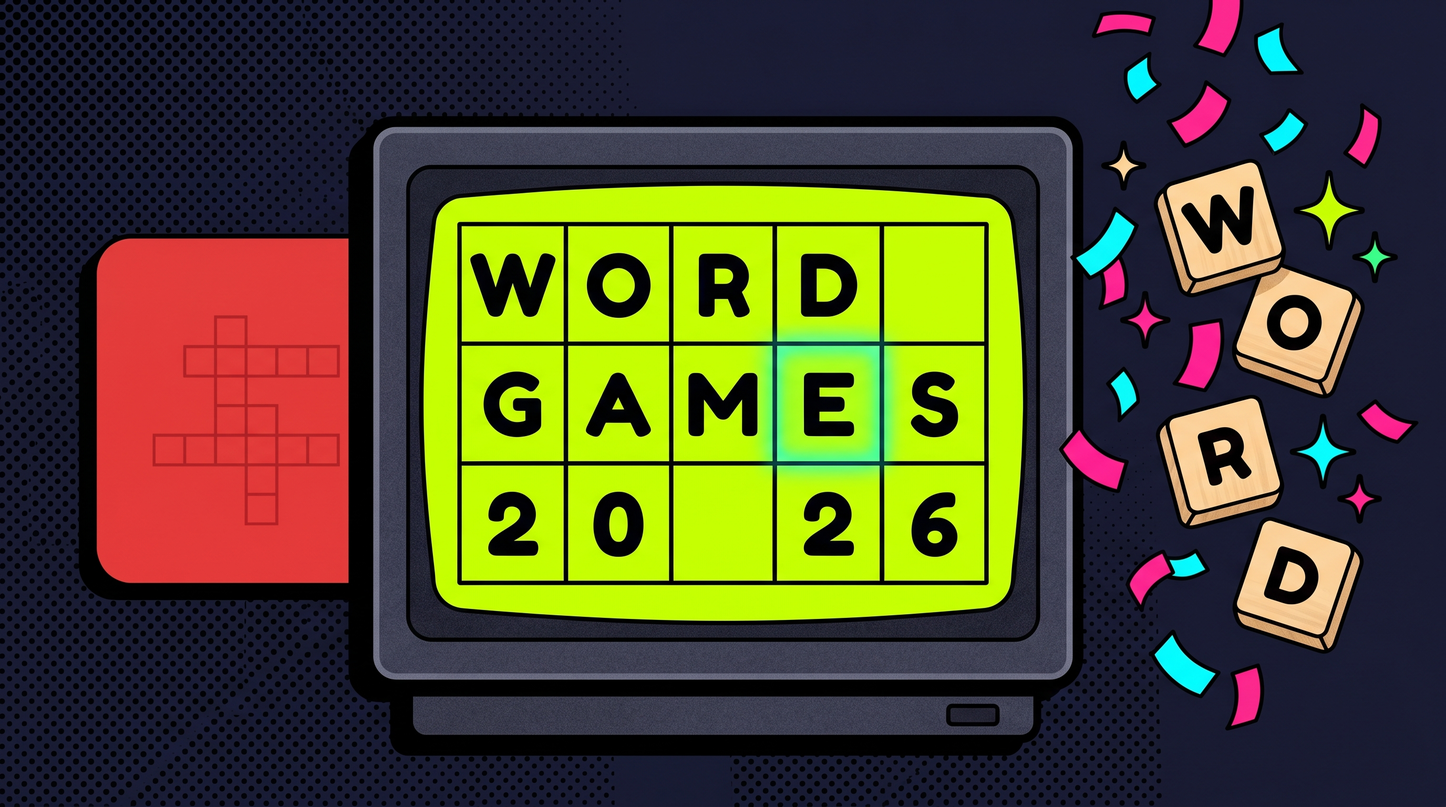
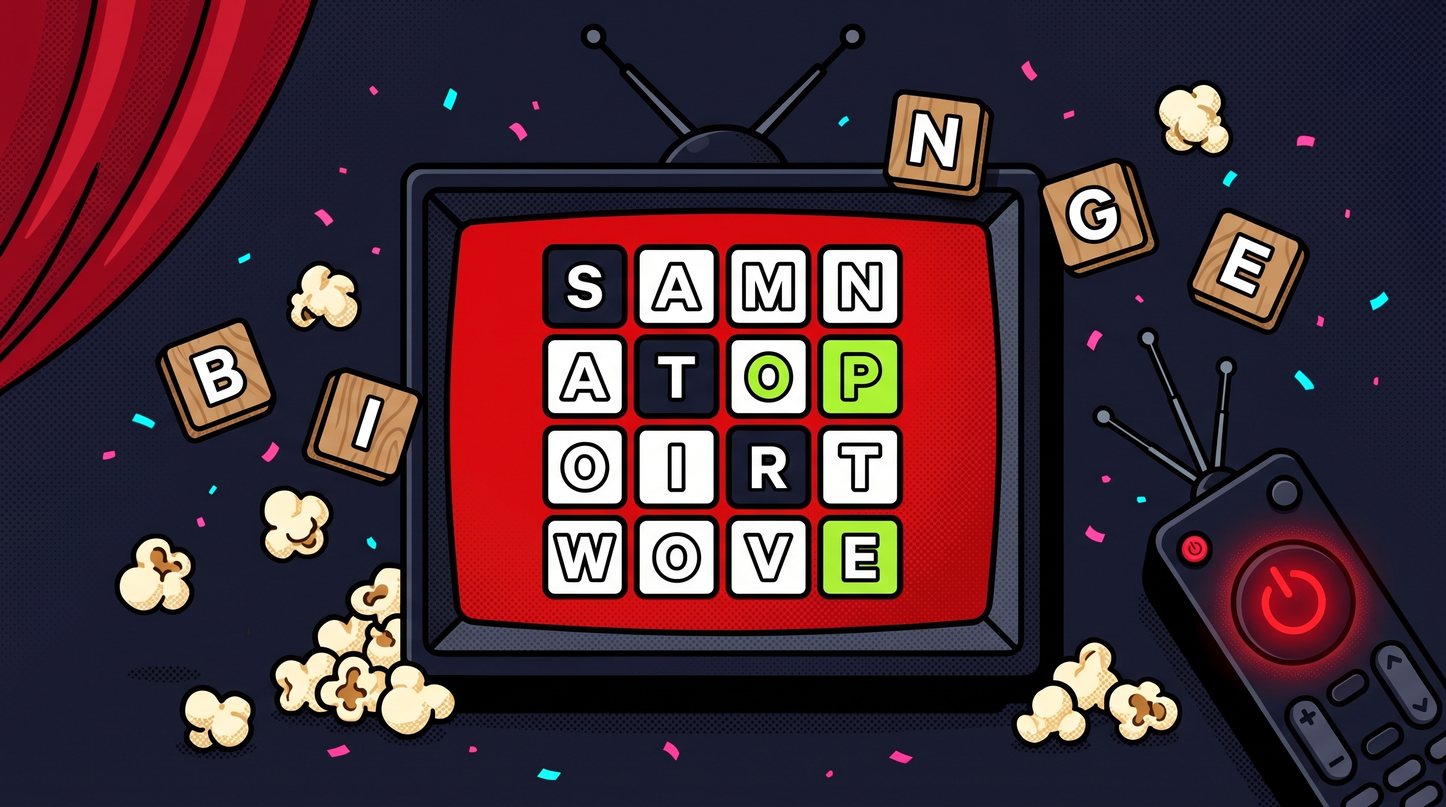
feat(blog): show newest posts on home + prominent CTA + Netflix-themed image
- Reorder LandingBlogSection to show 3 most recent posts (Netflix 2026,
  Boggle vs Wordle, Boggle vs Scrabble) instead of older entries
- Replace small text link with neo-brutalist yellow "View All Articles"
  button under the grid (visible on every breakpoint)
- Regenerate netflix-word-games.jpg with stronger streaming visual
  language: red curtain, popcorn, remote, red TV — no Netflix logo
  (trademark-safe)

diff --git a/fe-next/components/landing/LandingBlogSection.tsx b/fe-next/components/landing/LandingBlogSection.tsx
@@ -4,7 +4,7 @@ import Link from 'next/link';
 import Image from 'next/image';
 import { useParams } from 'next/navigation';
 import { motion } from 'framer-motion';
-import { Calendar, Clock, ArrowRight } from 'lucide-react';
+import { Calendar, Clock, ArrowRight, BookOpen } from 'lucide-react';
 import { useLanguage } from '@/contexts/LanguageContext';
 import { cn } from '@/lib/utils';
 import { safeToLocaleDateString } from '@/utils/bcp47Locale';
@@ -16,41 +16,42 @@ interface BlogPostData {
   content: Record<string, { title: string; excerpt: string; readTime: string; category: string }>;
 }
 
+// Sorted by date descending — newest first. Keep in sync with `app/[locale]/blog/PageClient.tsx`.
 const recentPosts: BlogPostData[] = [
   {
-    slug: 'vocabulary-building-strategies',
-    image: '/images/blog/vocabulary-building.jpg',
-    date: '2026-03-05',
+    slug: 'netflix-word-game-2026-rise',
+    image: '/images/blog/netflix-word-games.jpg',
+    date: '2026-04-29',
     content: {
-      en: { title: 'I Learned 500 New Words in 30 Days (Here\'s Exactly How)', excerpt: 'Spaced repetition, active recall, morphology hacks, and the daily routines that actually stick.', readTime: '11 min read', category: 'Learning' },
-      he: { title: 'למדתי 500 מילים חדשות ב-30 יום (ככה בדיוק)', excerpt: 'חזרה מרווחת, זכירה אקטיבית, טריקים מורפולוגיים, ושגרות יומיות שבאמת נתקעות.', readTime: '11 דקות קריאה', category: 'למידה' },
-      sv: { title: 'Jag lärde mig 500 nya ord på 30 dagar (så här gjorde jag)', excerpt: 'Repetition med intervall, aktiv återkallning, morfologiknep och dagliga rutiner som faktiskt fastnar.', readTime: '11 min läsning', category: 'Lärande' },
-      ja: { title: '30日で500の新しい単語を覚えた方法（具体的に教えます）', excerpt: '間隔反復、能動的想起、形態学ハック、実際に定着する日課。', readTime: '11分で読める', category: '学習' },
-      es: { title: 'Aprendí 500 Palabras Nuevas en 30 Días (Así Es Exactamente Cómo)', excerpt: 'Repetición espaciada, recuerdo activo, trucos morfológicos y rutinas diarias que realmente se quedan.', readTime: '11 min de lectura', category: 'Aprendizaje' },
+      en: { title: "Netflix Just Dropped a Word Game — 2026 Is the Year Word Games Took Over", excerpt: 'Streaming giants, daily-puzzle obsession, brain-training boom and a TikTok-shaped social loop. Why every screen you own suddenly wants you spelling things.', readTime: '9 min read', category: 'Trends' },
+      he: { title: 'נטפליקס שחררה משחק מילים — 2026 היא השנה של משחקי המילים', excerpt: 'סטרימינג ענק, התמכרות לפאזל היומי, גל אימון מוחי וטיק־טוק שהפך פתרון לספורט צפייה. למה כל מסך פתאום רוצה שתאייתו.', readTime: '9 דקות קריאה', category: 'טרנדים' },
+      sv: { title: 'Netflix släppte ett ordspel — 2026 är ordspelens år', excerpt: 'Streamingjättar, daglig pusselbesatthet, hjärnträningsboom och en TikTok-driven social loop. Varför varenda skärm plötsligt vill att du stavar.', readTime: '9 min läsning', category: 'Trender' },
+      ja: { title: 'Netflixがワードゲームを投入 — 2026年はワードゲームの年', excerpt: 'ストリーミング大手、デイリーパズル中毒、脳トレブーム、TikTok型ソーシャルループ。なぜあなたの全画面が突然「綴れ」と言ってくるのか。', readTime: '9分で読める', category: 'トレンド' },
+      es: { title: 'Netflix lanza un juego de palabras — 2026, el año de los juegos de palabras', excerpt: 'Gigantes del streaming, obsesión por el puzzle diario, boom del entrenamiento cerebral y un bucle social al estilo TikTok. Por qué cada pantalla quiere que deletrees.', readTime: '9 min de lectura', category: 'Tendencias' },
     },
   },
   {
-    slug: 'multiplayer-word-games-social',
-    image: '/images/blog/multiplayer-social.jpg',
-    date: '2026-02-15',
+    slug: 'boggle-vs-wordle',
+    image: '/images/blog/boggle-vs-wordle.jpg',
+    date: '2026-03-28',
     content: {
-      en: { title: 'Why Playing Word Games With Friends Hits Different', excerpt: 'Cooperative cognition, competitive trash talk, and why your brain literally lights up more when other humans are involved.', readTime: '10 min read', category: 'Social Science' },
-      he: { title: 'למה לשחק משחקי מילים עם חברים זה משהו אחר לגמרי', excerpt: 'קוגניציה שיתופית, טראש טוק תחרותי, ולמה המוח שלכם ממש נדלק יותר כשיש אנשים אחרים.', readTime: '10 דקות קריאה', category: 'מדע חברתי' },
-      sv: { title: 'Varför ordspel med vänner känns annorlunda', excerpt: 'Kooperativ kognition, tävlingsinriktat trash talk och varför din hjärna bokstavligen lyser mer med andra.', readTime: '10 min läsning', category: 'Samhällsvetenskap' },
-      ja: { title: '友達とのワードゲームが特別な理由', excerpt: '協調的認知、競争的トラッシュトーク、他の人間がいると脳が文字通りもっと輝く理由。', readTime: '10分で読める', category: '社会科学' },
-      es: { title: 'Por Qué Jugar Juegos de Palabras con Amigos Es Diferente', excerpt: 'Cognición cooperativa, trash talk competitivo y por qué tu cerebro literalmente se ilumina más con otros humanos.', readTime: '10 min de lectura', category: 'Ciencia Social' },
+      en: { title: 'Boggle vs Wordle: One Grid, Two Completely Different Brain Workouts', excerpt: 'Pattern recognition versus deductive logic. Unlimited rounds versus one a day. Which word game actually fits your brain?', readTime: '9 min read', category: 'Comparison' },
+      he: { title: 'בוגל מול וורדל: שני משחקי מילים, שני מוחות שונים לגמרי', excerpt: 'זיהוי דפוסים מול היגיון דדוקטיבי. סיבובים אינסופיים מול פעם ביום. איזה משחק מילים באמת מתאים לכם?', readTime: '9 דקות קריאה', category: 'השוואה' },
+      sv: { title: 'Boggle vs Wordle: Två ordspel, två helt olika hjärnträningar', excerpt: 'Mönsterigenkänning mot deduktiv logik. Obegränsade rundor mot en om dagen. Vilket ordspel passar din hjärna?', readTime: '9 min läsning', category: 'Jämförelse' },
+      ja: { title: 'Boggle vs Wordle：同じ「言葉」でも全く違う脳トレ', excerpt: 'パターン認識 vs 演繹的推理。無制限ラウンド vs 1日1回。あなたの脳に合うワードゲームはどっち？', readTime: '9分で読める', category: '比較' },
+      es: { title: 'Boggle vs Wordle: Dos Juegos de Palabras, Dos Cerebros Distintos', excerpt: 'Reconocimiento de patrones vs lógica deductiva. Rondas ilimitadas vs una al día. ¿Cuál le va mejor a tu cerebro?', readTime: '9 min de lectura', category: 'Comparación' },
     },
   },
   {
-    slug: 'word-games-for-kids-education',
-    image: '/images/blog/kids-education.jpg',
-    date: '2026-01-27',
+    slug: 'boggle-vs-scrabble',
+    image: '/images/blog/boggle-vs-scrabble.jpg',
+    date: '2026-03-28',
     content: {
-      en: { title: 'Why Every Teacher Should Have a Word Game in Their Toolkit', excerpt: 'The vocabulary gap is real, the research is compelling, and your students are already gamers — meet them where they are.', readTime: '11 min read', category: 'Education' },
-      he: { title: 'למה כל מורה צריך משחק מילים בארגז הכלים', excerpt: 'הפער באוצר המילים אמיתי, המחקר משכנע, והתלמידים שלכם כבר גיימרים — תפגשו אותם איפה שהם.', readTime: '11 דקות קריאה', category: 'חינוך' },
-      sv: { title: 'Varför varje lärare bör ha ett ordspel i verktygslådan', excerpt: 'Ordförrådsgapet är verkligt, forskningen är övertygande, och dina elever är redan gamers.', readTime: '11 min läsning', category: 'Utbildning' },
-      ja: { title: 'すべての教師がワードゲームを持つべき理由', excerpt: '語彙格差は現実、研究は説得力あり、生徒たちはすでにゲーマー — 彼らのいる場所で会いましょう。', readTime: '11分で読める', category: '教育' },
-      es: { title: 'Por Qué Todo Profesor Debería Tener un Juego de Palabras', excerpt: 'La brecha de vocabulario es real, la investigación es convincente, y tus alumnos ya son gamers.', readTime: '11 min de lectura', category: 'Educación' },
+      en: { title: 'Boggle vs Scrabble: Speed Demon or Strategic Mastermind?', excerpt: 'One gives you 3 minutes and chaos. The other lets you stare at tiles for 20. Which classic word game is actually better?', readTime: '10 min read', category: 'Comparison' },
+      he: { title: 'בוגל מול סקרבל: מהירות או אסטרטגיה?', excerpt: 'אחד נותן לכם 3 דקות וכאוס. השני נותן לכם לבהות באריחים 20 דקות. איזה קלאסיקה באמת יותר טובה?', readTime: '10 דקות קריאה', category: 'השוואה' },
+      sv: { title: 'Boggle vs Scrabble: Fartdemon eller strategiskt geni?', excerpt: 'Det ena ger dig 3 minuter och kaos. Det andra låter dig stirra på brickor i 20. Vilken klassiker är bäst?', readTime: '10 min läsning', category: 'Jämförelse' },
+      ja: { title: 'Boggle vs Scrabble：スピード狂か戦略の達人か？', excerpt: '一方は3分間のカオス。もう一方は20分間タイルを見つめる。どっちのクラシックが本当に優れてる？', readTime: '10分で読める', category: '比較' },
+      es: { title: 'Boggle vs Scrabble: ¿Velocidad o Estrategia?', excerpt: 'Uno te da 3 minutos de caos. El otro te deja mirar fichas 20 minutos. ¿Cuál clásico es realmente mejor?', readTime: '10 min de lectura', category: 'Comparación' },
     },
   },
 ];
@@ -79,20 +80,10 @@ export function LandingBlogSection() {
 
   return (
     <section className="w-full max-w-4xl mx-auto xl:max-w-5xl">
-      <div className="flex items-center justify-between mb-6">
+      <div className="mb-6">
         <h2 className="text-2xl sm:text-3xl font-black uppercase text-white">
           {sectionHeading[lang]}
         </h2>
-        <Link
-          href={`/${locale}/blog`}
-          className={cn(
-            'hidden sm:flex items-center gap-1 text-sm font-bold text-neo-yellow',
-            'hover:underline underline-offset-4'
-          )}
-        >
-          {viewAllLabel[lang]}
-          <ArrowRight className="w-4 h-4 rtl:rotate-180" />
-        </Link>
       </div>
 
       <div className="grid gap-5 sm:grid-cols-2 lg:grid-cols-3">
@@ -153,14 +144,21 @@ export function LandingBlogSection() {
         })}
       </div>
 
-      {/* Mobile "View All" link */}
-      <div className="sm:hidden mt-4 text-center">
+      {/* Prominent "View All" CTA — pulls eyes after the 3-card grid */}
+      <div className="mt-8 flex justify-center">
         <Link
           href={`/${locale}/blog`}
-          className="inline-flex items-center gap-1 text-sm font-bold text-neo-yellow hover:underline underline-offset-4"
+          className={cn(
+            'group inline-flex items-center gap-2 px-6 py-3 sm:px-8 sm:py-4',
+            'rounded-neo border-3 border-neo-black bg-neo-yellow text-neo-black',
+            'font-black uppercase text-base sm:text-lg shadow-hard-lg',
+            'transition-all hover:-translate-y-0.5 hover:shadow-hard-xl',
+            'active:translate-y-0 active:shadow-hard-pressed'
+          )}
         >
+          <BookOpen className="w-5 h-5" />
           {viewAllLabel[lang]}
-          <ArrowRight className="w-4 h-4 rtl:rotate-180" />
+          <ArrowRight className="w-5 h-5 rtl:rotate-180 transition-transform group-hover:translate-x-1 rtl:group-hover:-translate-x-1" />
         </Link>
       </div>
     </section>
